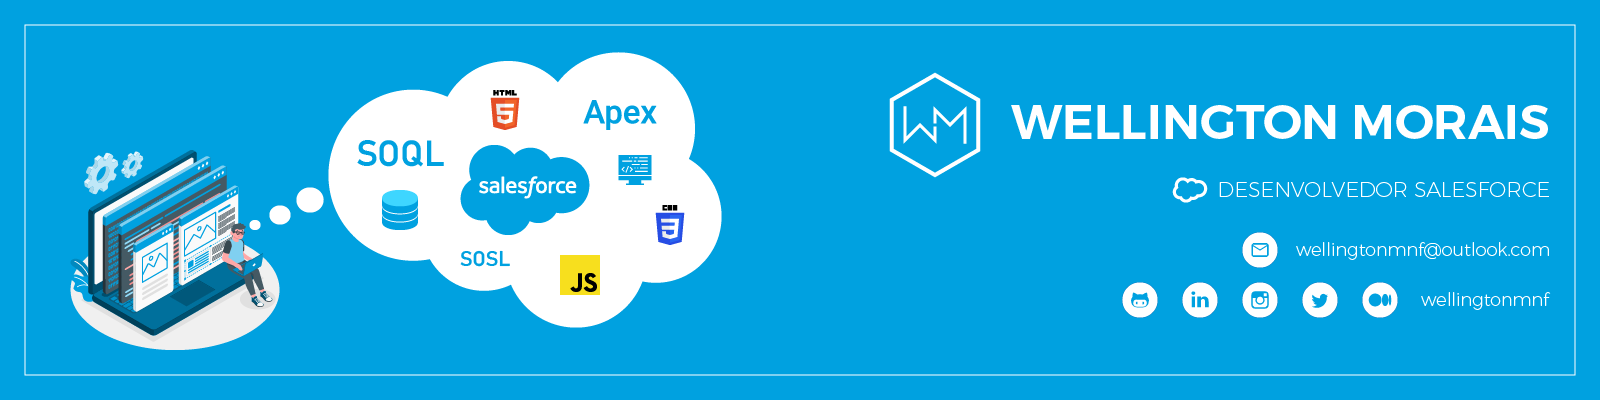
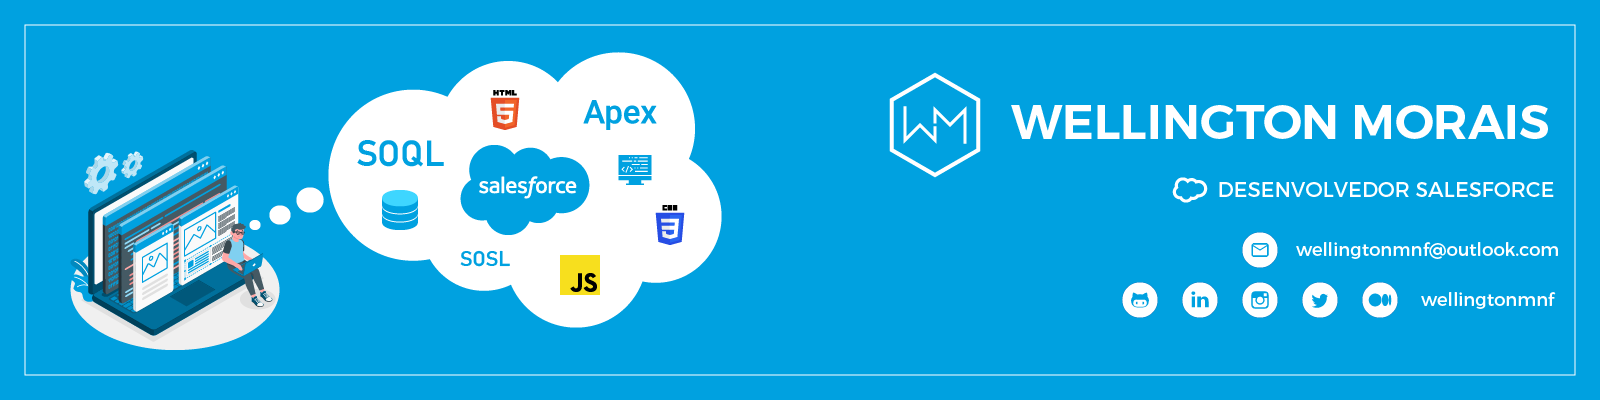
Atualização - README.md
- Criação da seção RODAPE;

- Atualização das imagens de topo e rodapé;

- Atualização de hierarquia de títulos;

- Seção EXPERIÊNCIA PROFISSIONAL renomeada para seção CURRÌCULO;

- Correção da formatação na seção CURRÌCULO, em EXPERIÊNCIA PROFISSIONAL;

Changed region(s): [[0.75, 0.45, 0.9688, 0.51], [0.8125, 0.6, 0.9688, 0.66], [0.875, 0.72, 0.9688, 0.78]]

diff --git a/README.md b/README.md
@@ -289,7 +289,21 @@ You can click the Preview link to take a look at your changes.
 
 <!---CONTEÚDO LIVRE--->
 
+<footer id="rodape">
 
+<details>
+<summary><h3>RODAPÉ</h3></summary>
+
+<div id="xxx" align="center">
+
+
+</div>
+
+</details>
+
+![Rodapé do skyline de Salvador README.md](imagens/rodape-readme.png)
+
+</footer>
 
 
 </body>
